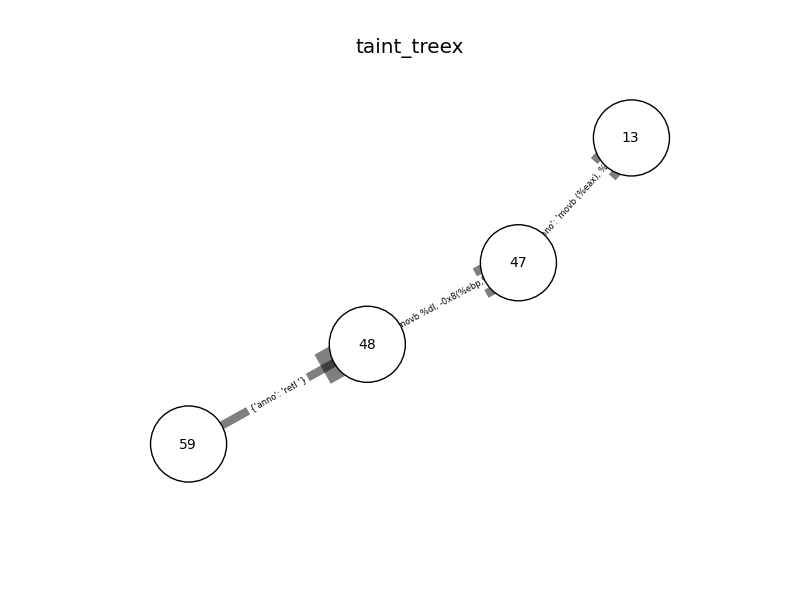
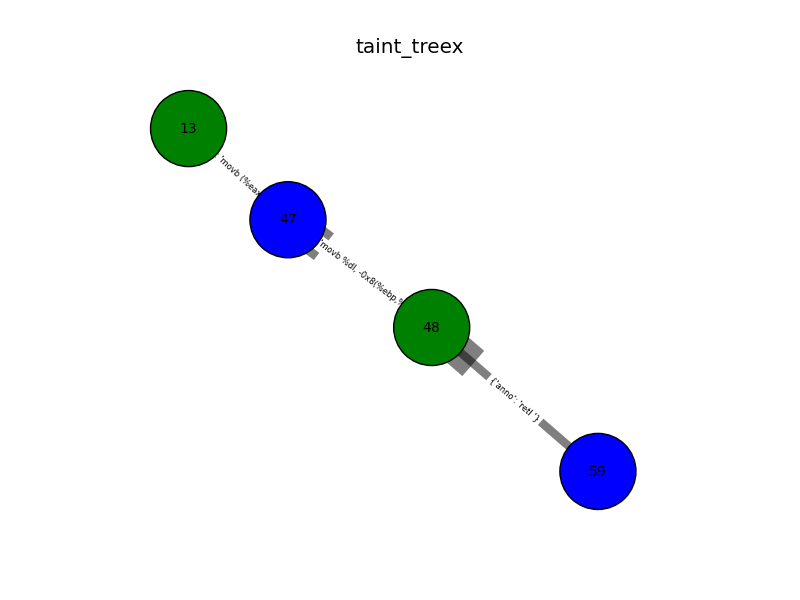
node colorization based on attributes

diff --git a/src/TaintVisualizer.py b/src/TaintVisualizer.py
@@ -86,7 +86,11 @@ if __name__ == '__main__':
   ##pos=nx.graphviz_layout(roottree,prog='dot')
   ##pos=nx.graphviz_layout(roottree,prog='dot')
   ######NODES######
-  nx.draw_networkx_nodes(roottree, pos, node_size=3000, node_color='white')
+  #nx.draw_networkx_nodes(roottree, pos, node_size=3000, node_color='white')
+  #nx.draw_networkx_nodes(roottree, pos, node_size=3000, node_color='blue', nodelist=[x for x in roottree.nodes()])
+  nx.draw_networkx_nodes(roottree, pos, node_size=3000, node_color='blue', nodelist=[x for x in roottree.nodes() if roottree.node[x]['inode'].typ == 'reg'])
+  nx.draw_networkx_nodes(roottree, pos, node_size=3000, node_color='green', nodelist=[x for x in roottree.nodes() if roottree.node[x]['inode'].typ == 'mem'])
+  #nx.draw_networkx_nodes(roottree, pos, node_size=3000, node_color='blue', nodelist=[x for x in roottree.nodes()['inode if x.typ == 'reg'])
   ######EDGES######
   nx.draw_networkx_edges(roottree, pos, width=6, alpha=0.5, edge_color='black')
   ######LABELS######
